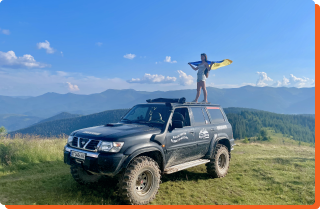
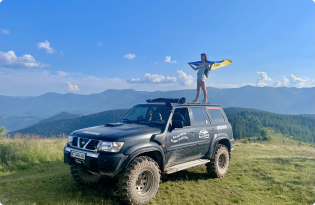
Made on first screen layout under image

diff --git a/assets/scss/blocks/_first-screen.scss b/assets/scss/blocks/_first-screen.scss
@@ -23,6 +23,16 @@
             width: 100%;
             border-radius: 5px;
         }
+        .layout {
+            position: absolute;
+            background: #F26022;
+            border-radius: 5px;
+            top: 4px;
+            left: 5px;
+            width: 100%;
+            height: 100%;
+            z-index: 0;
+        }
     }
 }
 

diff --git a/index.html b/index.html
@@ -48,6 +48,7 @@
         </h3>
         <div class="first-screen__photo">
           <h1>Верхо<span>Вид</span></h1>
+          <div class="layout"></div>
           <img src="assets/images/first-screen.png" alt="Джип-тури">
         </div>
         <a href="tel:+380982545545" class="call">Зателефонувати</a>         
